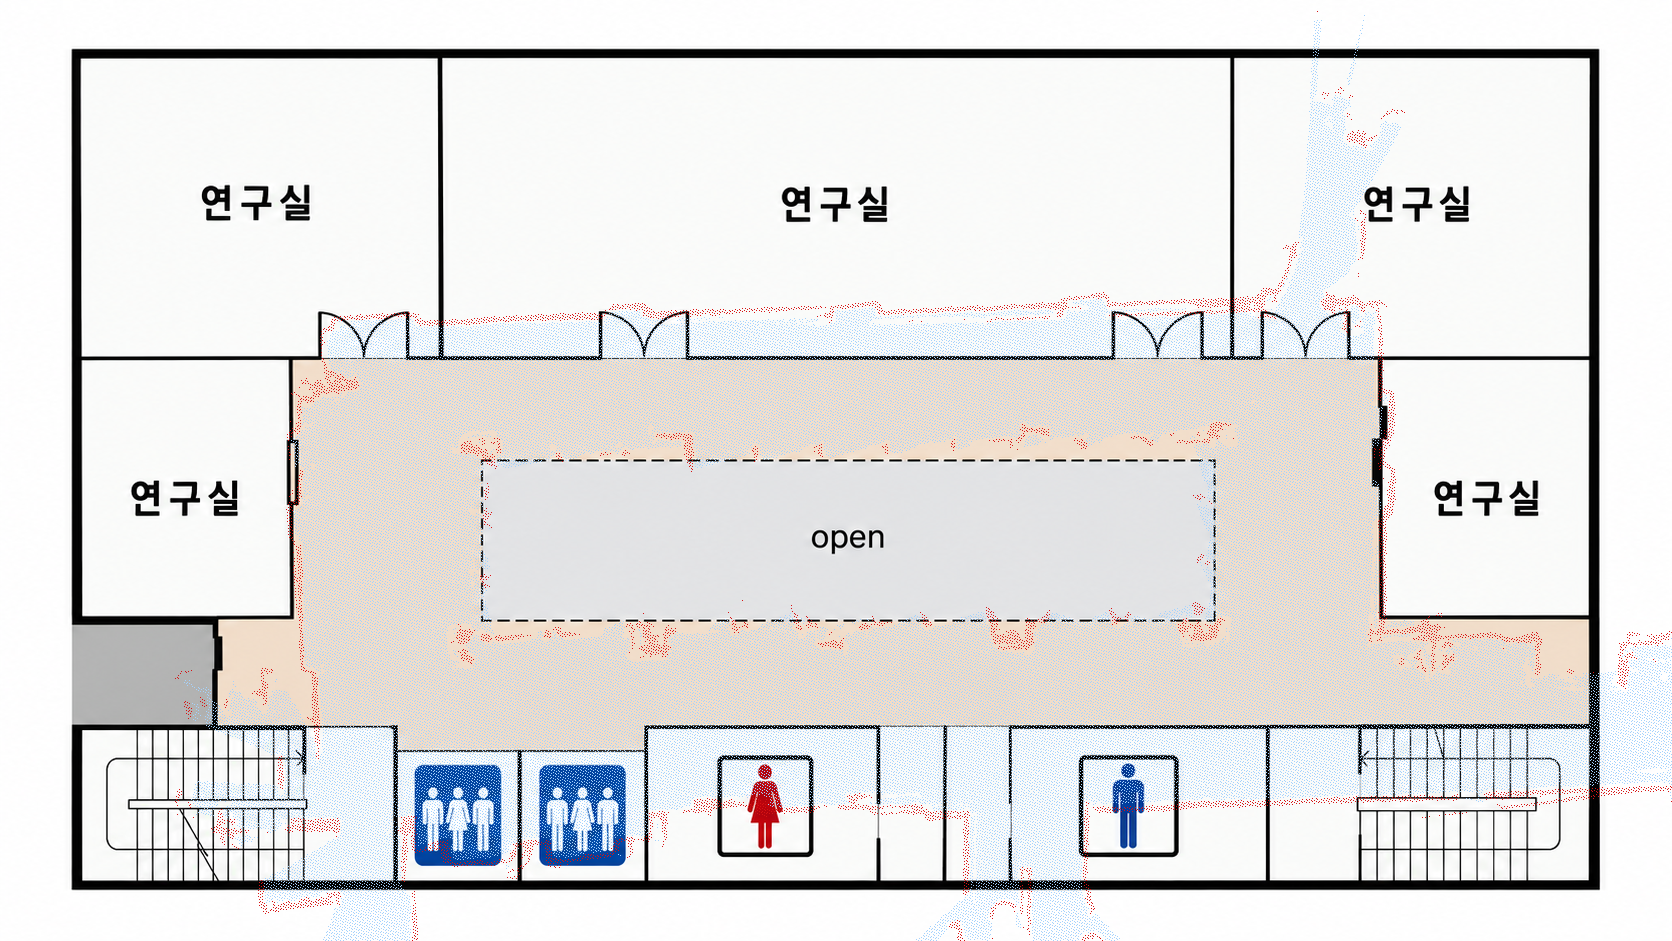
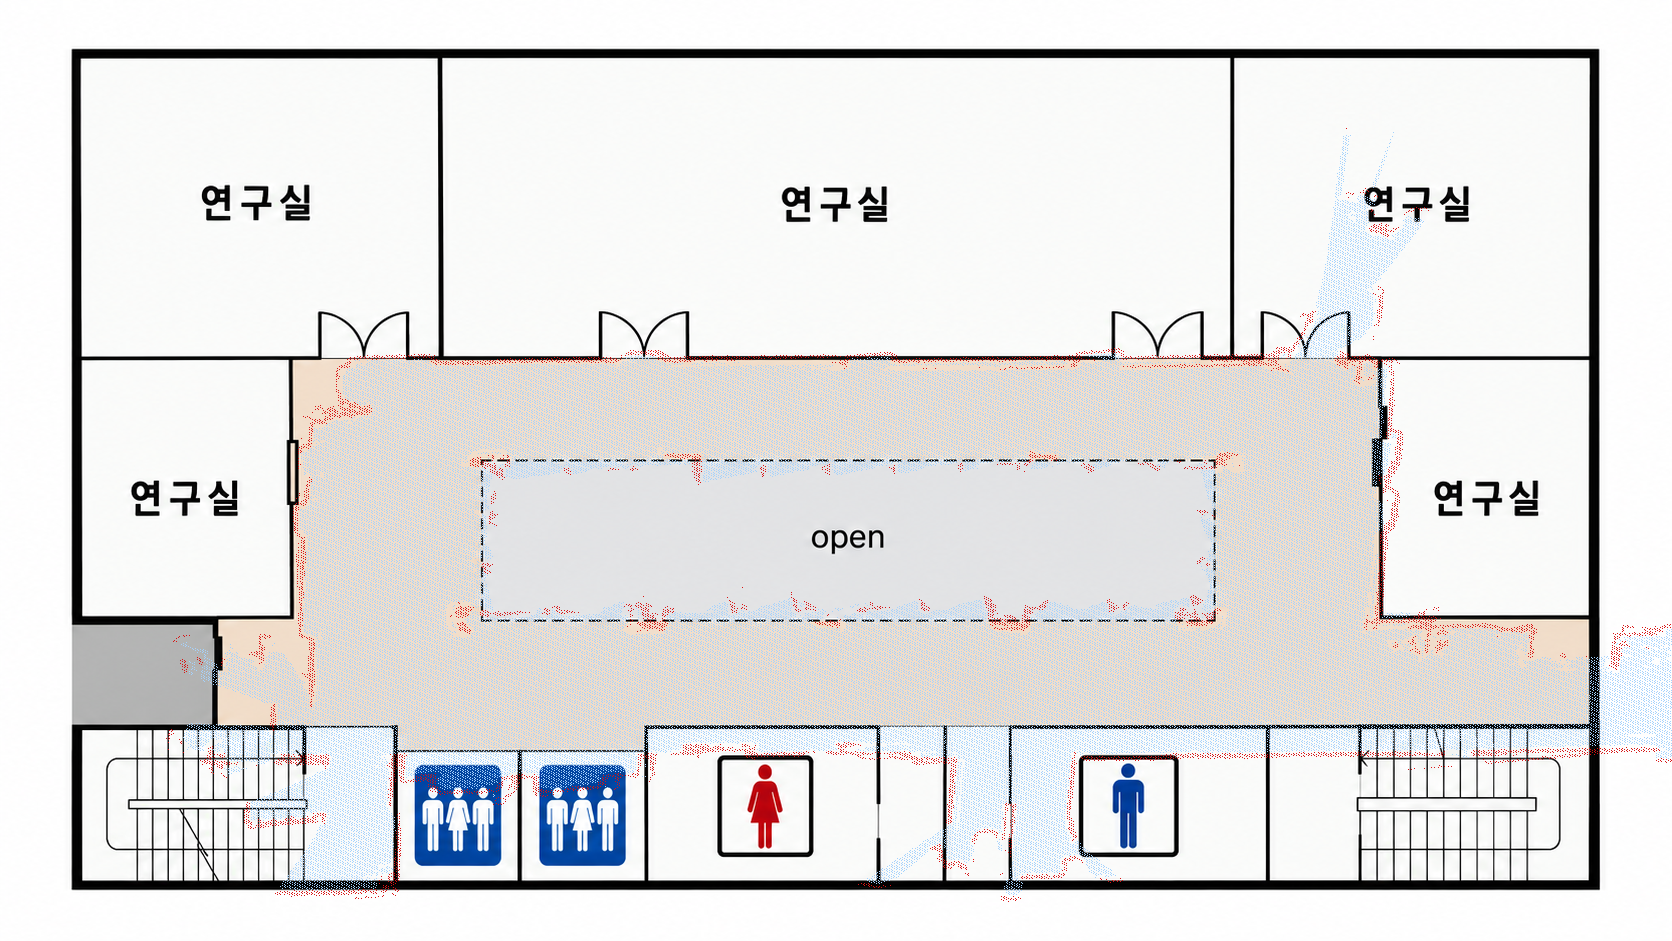
연구소 보정이 세로로 부풀었던 것을 고친다 — v2.7.1
복도 위벽이 48px 올라가고 아래벽이 85px 내려가 있었다. 테두리가 안 닿는
것을 보고 알았다.

원인은 지표를 잘못 쓴 것이다. 고리 복도 안쪽의 미탐색 덩어리를 open 으로
보고 그 '크기' 까지 맞췄는데, 그 덩어리는 5.41m 폭이고 실제 open 은 같은
축척에서 3.6m 다. 로봇이 난간에서 0.9m 씩 떨어져 다녀서 그만큼 뚱뚱하다.
없는 1.8m 를 맞추려 드니 세로 배율이 부풀었다.

**중심은 믿을 만하지만 크기는 아니다.** 중심만 못으로 박고 나머지는 병동과
같이 벽으로 맞췄다. 벽 화소가 병동의 1/5(7,641개)뿐이라 벽만으로는 못
푸는데, 중심이 박혀 있으면 그 희박한 벽으로도 풀린다.

고친 뒤 복도 가장자리:

    위벽   -48px  ->   -1px
    왼벽            +8px
    오른벽         +12px

도면 1px 가 2.2cm 이니 20~30cm 안쪽이다. 아래벽은 +29px 로 나오는데,
라이다가 화장실 문틈으로 본 벽을 집은 것으로 보인다.

병동 값도 소수점을 덜 자른 것으로 바꾼다. 같은 아핀인데 반올림 때문에
도면에서 1px 쯤 달라지고 있었다.

Changed region(s): [[0.1244, 0.1233, 1.0, 1.0], [0.5598, 0.9554, 0.5909, 1.0]]

diff --git a/lib/utils/floor_map.dart b/lib/utils/floor_map.dart
@@ -54,18 +54,19 @@ class FloorMap {
       asset: 'assets/map/ward_4f.png',
       imageWidth: 1672,
       imageHeight: 941,
-      a: 4.75175, b: -20.85230, c: 678.16,
-      d: -20.16562, e: -4.47570, f: 464.72,
+      a: 4.751755, b: -20.852296, c: 678.158,
+      d: -20.165622, e: -4.475699, f: 464.723,
     ),
-    // 연구소는 시험용이다. 벽이 유리라 라이다에 거의 안 잡혀서, 병동만큼
-    // 정확하지 않다. "로봇이 고리 복도를 돌고 있다" 를 보는 데 쓴다.
+    // 연구소는 실로봇 시뮬레이션을 돌리는 곳이다. 벽이 유리라 라이다에
+    // 거의 안 잡혀(벽 화소가 병동의 1/5) 병동만큼 촘촘히 맞추지는 못했다.
+    // 복도 가장자리 기준으로 20~30 cm 안쪽에 든다.
     'lab_4F': FloorMap(
       mapName: 'lab_4F',
       asset: 'assets/map/lab_4f.png',
       imageWidth: 1672,
       imageHeight: 941,
-      a: -31.00918, b: 36.00200, c: 1203.33,
-      d: 34.86241, e: 27.24518, f: 368.75,
+      a: -32.768492, b: 34.393609, c: 1213.908,
+      d: 27.216006, e: 22.127891, f: 410.066,
     ),
   };
 

diff --git a/lib/app_version.dart b/lib/app_version.dart
@@ -12,4 +12,4 @@
 ///   2.x.x  앞자리 — 간호과에 넘긴 큰 배포. '2차 버전'이 2.0.0 이다.
 ///   x.1.x  가운뎃자리 — 기능이 늘었을 때
 ///   x.x.1  뒷자리 — 버그만 고쳤을 때
-const String appVersion = '2.7.0';
+const String appVersion = '2.7.1';

diff --git a/maps/README.md b/maps/README.md
@@ -30,7 +30,7 @@
 | | 1 m 당 가로 | 1 m 당 세로 | 지표 |
 |---|---|---|---|
 | `ward_edit` (병동) | 20.72 px | 21.33 px | 간호사실 카운터 |
-| `lab_4F` (연구소) | 46.66 px | 45.15 px | 가운데 뚫린 공간(open) |
+| `lab_4F` (연구소) | 42.60 px | 40.90 px | 뚫린 공간(open) **중심만** |
 
 ### ⚠ 닮음변환이 아니라 아핀이어야 한다
 
@@ -51,9 +51,19 @@
   (chamfer 정합). 대피도에는 모든 벽이 있지만 격자에는 라이다가 본 벽만
   있으므로 '격자 → 대피도' 방향으로 맞춘다. 반대로 하면 짝 없는 벽이
   많아 축척이 무너진다.
-- **연구소**: 벽 정합이 안 통한다. 벽이 유리라 라이다에 거의 안 잡혀 벽
-  화소가 병동의 1/5(7,641개)뿐이다. 대신 고리 복도 안쪽에 갇힌 미탐색
-  덩어리가 곧 `open` 이라, 그것과 복도 색을 함께 맞췄다.
+- **연구소**: 뚫린 공간의 **중심만** 못으로 쓰고 나머지는 병동과 같이
+  벽으로 맞췄다. 벽 화소가 병동의 1/5(7,641개)뿐이라 벽만으로는 못
+  푸는데, 중심을 박아 두면 그 희박한 벽으로도 풀린다.
+
+### ⚠ 뚫린 공간의 '크기' 를 지표로 쓰면 안 된다
+
+한 번 그렇게 했다가 틀렸다. 고리 안쪽의 미탐색 덩어리는 **5.41 m 폭**인데
+실제 `open` 은 같은 축척에서 3.6 m 다 — 로봇이 난간에서 0.9 m 씩 떨어져
+다녀서 그만큼 뚱뚱하다. 그걸 크기 기준으로 삼으니 세로 배율이 부풀어,
+복도 위벽이 48 px 올라가고 아래벽이 85 px 내려갔다.
+
+**중심은 믿을 만하지만 크기는 아니다.** 고친 뒤 위벽은 −1 px, 좌우벽은
++8 / +12 px 로 붙었다.
 
 ### ⚠ 자동 정합만 믿으면 안 된다 — 지표를 박아야 한다
 

diff --git a/BUILD.md b/BUILD.md
@@ -45,6 +45,7 @@ git push origin v2.1.0
 | `v2.5.1` | 2026-10-16 | 배송 현황 버튼이 환자 카드를 가리던 것 수정 |
 | `v2.6.0` | 2026-10-19 | 배송 성패와 복귀 성패를 갈라 읽음 + 로봇 점검 필요 표시 |
 | `v2.7.0` | 2026-10-20 | 배차 화면 층 도면에 로봇 위치 표시 |
+| `v2.7.1` | 2026-10-20 | 연구소 도면 보정이 세로로 부풀었던 것 수정 |
 
 > `v2.1.0` 은 배포한 뒤 태그를 빠뜨려 2026-09-17 에 뒤늦게 달았다. 어느
 > 코드가 나갔는지는 `build/web/version.json`(2.1.0+4)과 `.firebase` 배포
